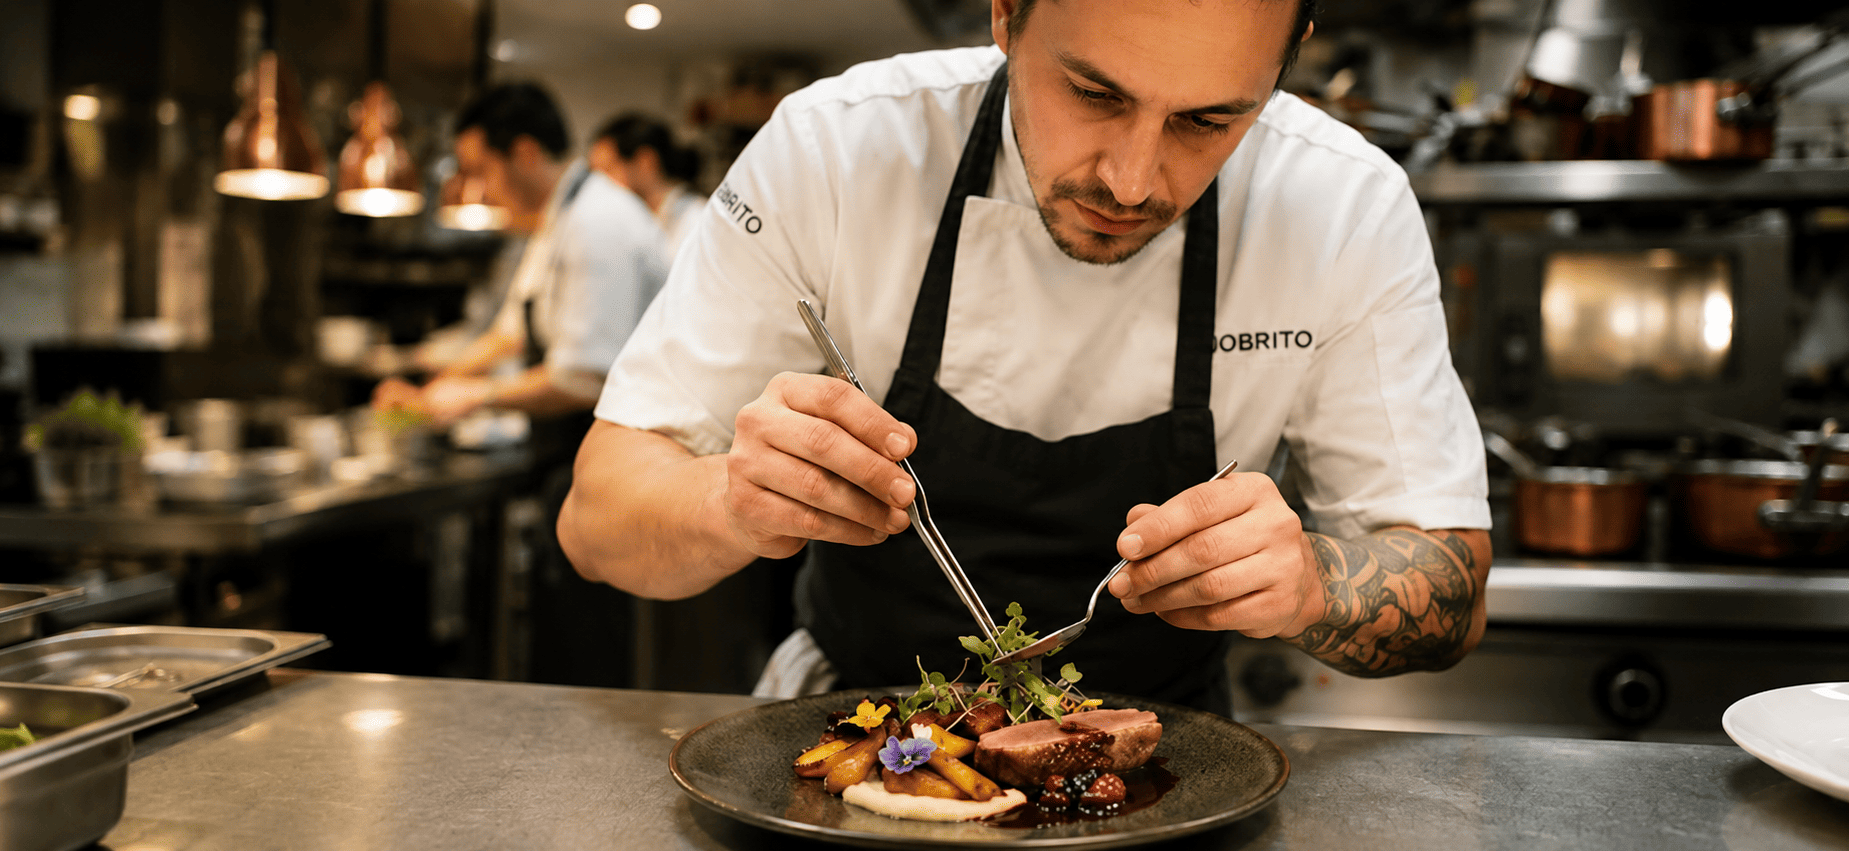
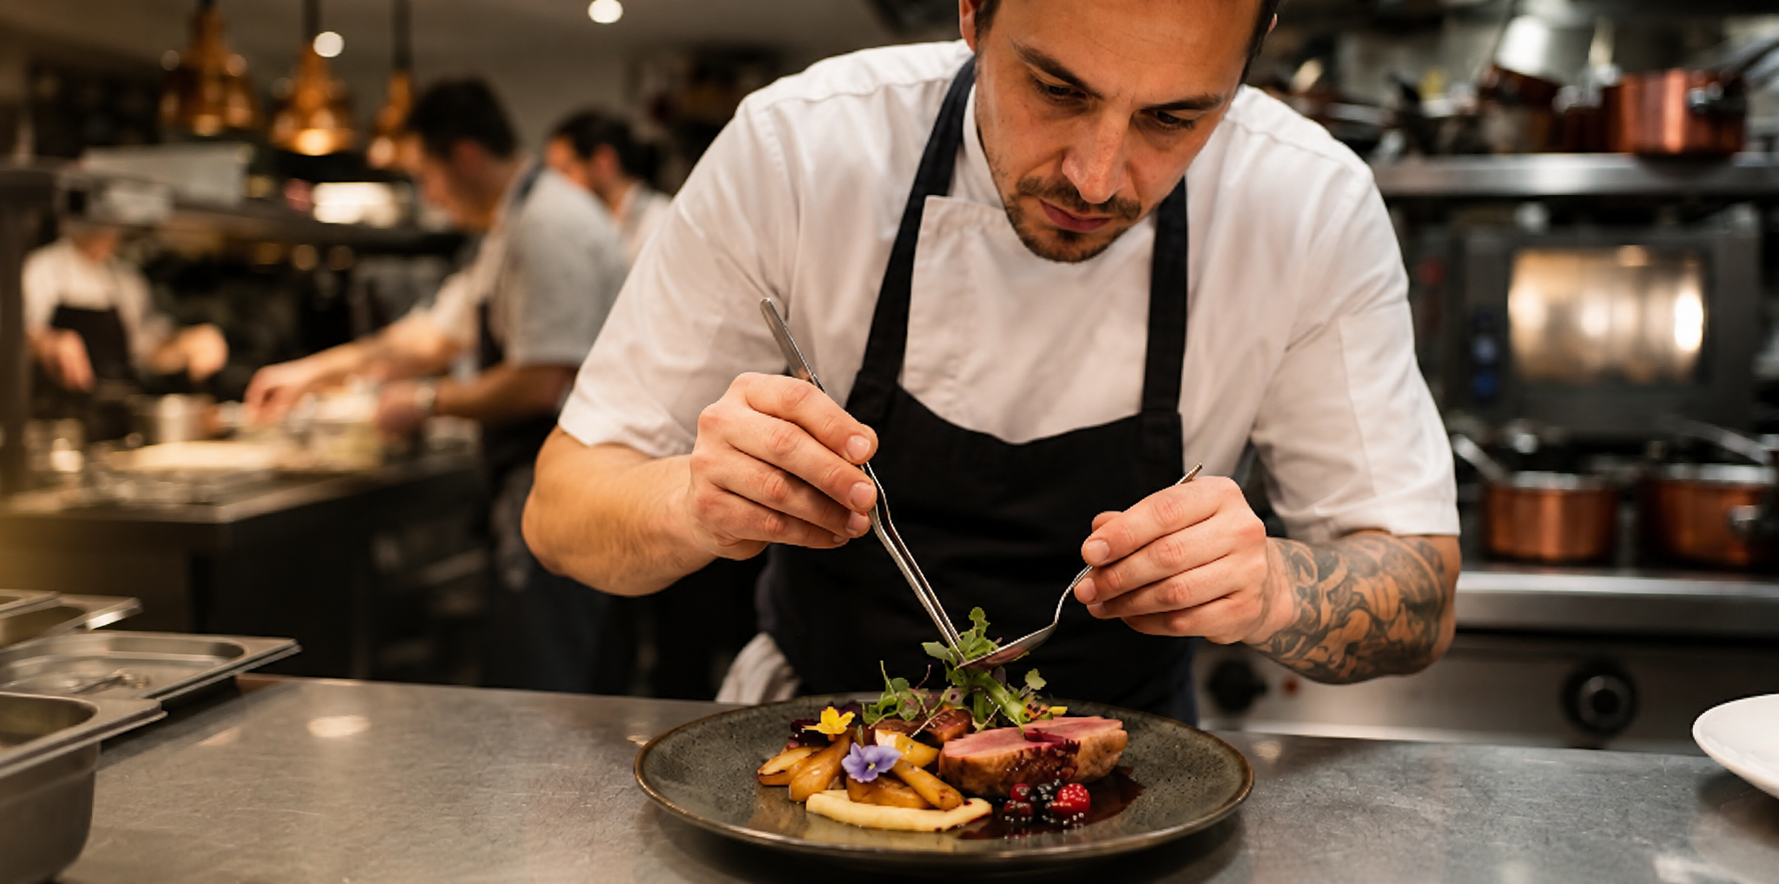
add new UI

diff --git a/frontend/src/component/HelpSupport.jsx b/frontend/src/component/HelpSupport.jsx
@@ -135,45 +135,6 @@ const HelpSupport = () => {
                     </div>
                   </div>
 
-                  {/* Phone */}
-                  <div className="flex gap-4 items-start">
-                    <div className="w-10 h-10 rounded-xl bg-[#00284C]/5 flex items-center justify-center text-[#00284C] flex-shrink-0">
-                      <Phone className="w-5 h-5" />
-                    </div>
-                    <div>
-                      <h4 className="text-[14px] font-bold text-[#00284C]">Call/WhatsApp</h4>
-                      <p className="text-[15px] text-[#43474F] mt-0.5">+91 98765 43210</p>
-                    </div>
-                  </div>
-
-                  {/* Office address */}
-                  <div className="flex gap-4 items-start">
-                    <div className="w-10 h-10 rounded-xl bg-[#00284C]/5 flex items-center justify-center text-[#00284C] flex-shrink-0">
-                      <MapPin className="w-5 h-5" />
-                    </div>
-                    <div>
-                      <h4 className="text-[14px] font-bold text-[#00284C]">Headquarters</h4>
-                      <p className="text-[15px] text-[#43474F] mt-0.5">
-                        Hoss Global Inc.<br />
-                        Civic Center, Jabalpur,<br />
-                        Madhya Pradesh, 482001
-                      </p>
-                    </div>
-                  </div>
-
-                  {/* Timings */}
-                  <div className="flex gap-4 items-start">
-                    <div className="w-10 h-10 rounded-xl bg-[#00284C]/5 flex items-center justify-center text-[#00284C] flex-shrink-0">
-                      <Clock className="w-5 h-5" />
-                    </div>
-                    <div>
-                      <h4 className="text-[14px] font-bold text-[#00284C]">Support Hours</h4>
-                      <p className="text-[15px] text-[#43474F] mt-0.5">
-                        Monday - Saturday<br />
-                        09:00 AM - 06:00 PM IST
-                      </p>
-                    </div>
-                  </div>
                 </div>
               </div>
 